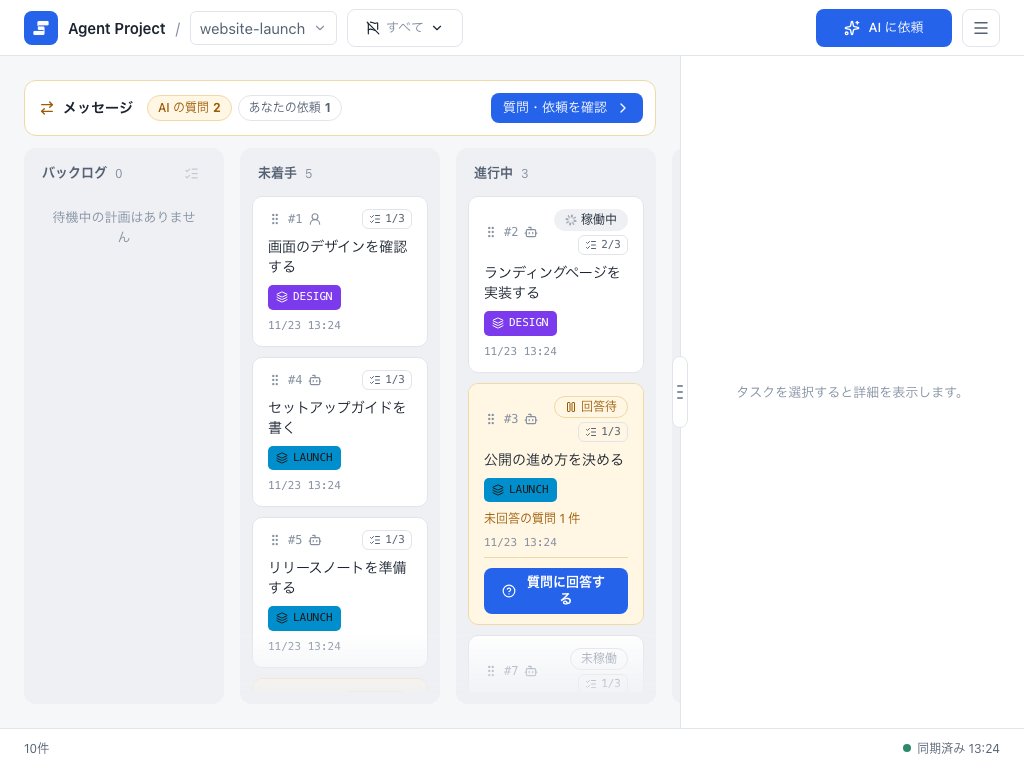
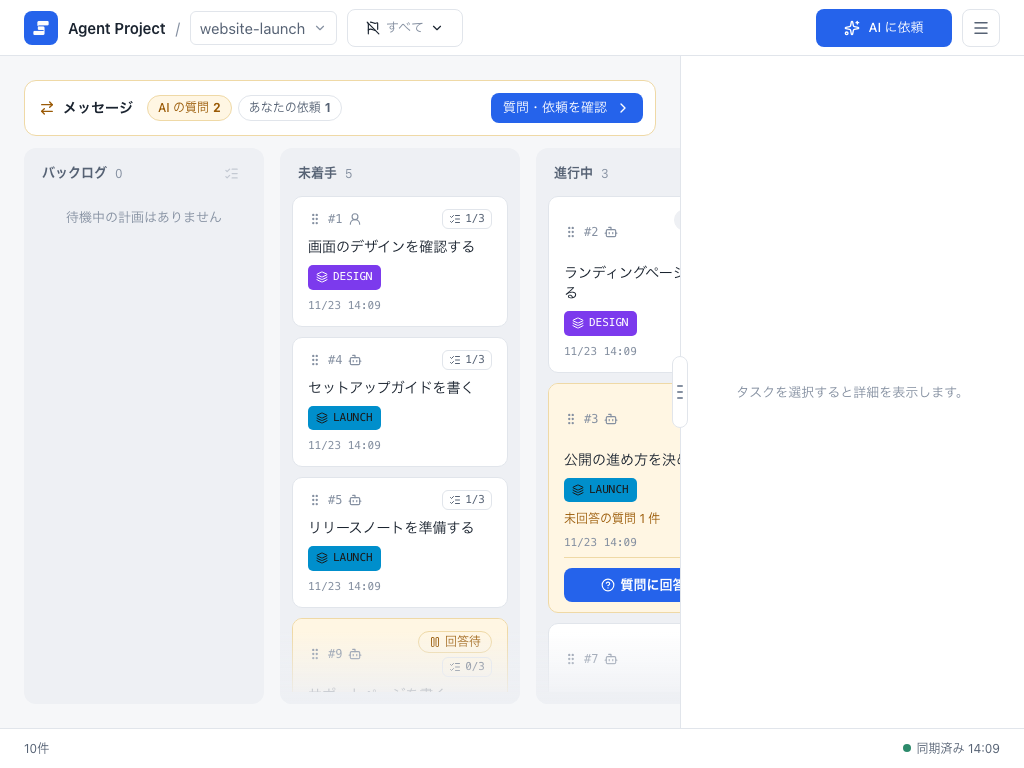
fix: widen the board lanes on tablet widths
Raise the lanes' minimum width from 200px to 240px and let the board
scroll sideways when four lanes do not fit beside the detail panel.
Update the layout tests, the user guide, and the tablet README images.

diff --git a/e2e/tests/layout.spec.ts b/e2e/tests/layout.spec.ts
@@ -144,11 +144,11 @@ for (const width of [1024, 1280, 1920]) {
     expect(boxes[0].x).toBeLessThan(boxes[1].x);
     expect(boxes[1].x).toBeLessThan(boxes[2].x);
     expect(boxes[2].x).toBeLessThan(boxes[3].x);
-    for (const lane of boxes) expect(lane.width).toBeGreaterThanOrEqual(200);
+    for (const lane of boxes) expect(lane.width).toBeGreaterThanOrEqual(240);
     const panelBox = await box(panel(page));
     expect(panelBox.x + panelBox.width).toBe(width);
-    // At 1024px the four lanes scroll sideways inside the board, so only the wider windows show them all.
-    if (width >= 1280) expect(boxes[3].x + boxes[3].width).toBeLessThanOrEqual(panelBox.x);
+    // At 1024px the four lanes scroll sideways inside the board, so only windows of 1400px and wider show them all (four 240px lanes, the 360px panel, and the insets).
+    if (width >= 1400) expect(boxes[3].x + boxes[3].width).toBeLessThanOrEqual(panelBox.x);
     await expect(handle(page)).toBeVisible();
     await task(page, 8).click();
     await expect(panel(page).getByRole('button', { name: 'Close details' })).toBeVisible();
@@ -157,12 +157,12 @@ for (const width of [1024, 1280, 1920]) {
   });
 }
 
-test('1024px: the default width fits beside four lanes (each stays at least 200px)', async ({ page }) => {
+test('1024px: the default width fits beside four lanes (each stays at least 240px)', async ({ page }) => {
   await open(page, 1024);
-  // Four lanes of 200px do not fit beside the default width: the panel shrinks to its smallest width (344px) and the lanes scroll.
+  // Four lanes of 240px do not fit beside the default width: the panel shrinks to its smallest width (344px) and the lanes scroll.
   await expect.poll(() => panelWidth(page)).toBe(344);
   const lanes = await page.locator('.lane').evaluateAll((els) => els.map((e) => e.getBoundingClientRect().width));
-  for (const w of lanes) expect(w).toBeGreaterThanOrEqual(200);
+  for (const w of lanes) expect(w).toBeGreaterThanOrEqual(240);
 });
 
 test('1920px: the extra width goes to the lanes and the panel keeps its width', async ({ page }) => {
@@ -232,7 +232,7 @@ test('1280px: the handle is a vertical separator and the drag stops at the limit
   await dragBy(page, -2000);
   expect(await panelWidth(page)).toBe(560);
   const lanes = await page.locator('.lane').evaluateAll((els) => els.map((e) => e.getBoundingClientRect().width));
-  for (const w of lanes) expect(w).toBeGreaterThanOrEqual(200);
+  for (const w of lanes) expect(w).toBeGreaterThanOrEqual(240);
 
   await dragBy(page, 2000);
   expect(await panelWidth(page)).toBe(280);

diff --git a/web/src/shared/styles/app.css b/web/src/shared/styles/app.css
@@ -297,7 +297,7 @@ ol {
 
 .board__lanes {
   display: grid;
-  grid-template-columns: repeat(4, minmax(200px, 1fr));
+  grid-template-columns: repeat(4, minmax(240px, 1fr));
   align-items: stretch;
   gap: 16px;
   height: 100%;
@@ -305,13 +305,13 @@ ol {
   padding: 24px;
 }
 
-/* The band of messages sits above the lanes; the lanes take the height left. */
-/* Four lanes of at least 200px: a window narrower than that scrolls the lanes sideways inside the board. */
-@media (max-width: 1279px) {
-  .board__lanes {
-    overflow-x: auto;
-  }
+/* Four lanes of at least 240px (readable on a 1024px tablet beside the detail panel): a board narrower than
+   that scrolls the lanes sideways inside the board, and the padding at the end keeps the last lane clear. */
+.board__lanes {
+  overflow-x: auto;
 }
+
+/* The band of messages sits above the lanes; the lanes take the height left. */
 
 .board--with-band {
   display: flex;

diff --git a/web/test/layout.test.ts b/web/test/layout.test.ts
@@ -38,7 +38,7 @@ describe('desktop layout', () => {
     expect(rule(css, '.board__lanes')).toMatch(/padding:\s*24px/);
     expect(rule(css, '.board__lanes')).toMatch(/gap:\s*16px/);
     expect(rule(css, '.board__lanes')).toMatch(
-      /grid-template-columns:\s*repeat\(4, minmax\(200px, 1fr\)\)/,
+      /grid-template-columns:\s*repeat\(4, minmax\(240px, 1fr\)\)/,
     );
     expect(rule(css, '.lane')).toMatch(/padding:\s*12px/);
     expect(rule(css, '.lane')).toMatch(/border-radius:\s*var\(--radius-lane\)/);

diff --git a/docs/ja/guide/watch/board.md b/docs/ja/guide/watch/board.md
@@ -152,6 +152,8 @@ title: カンバン
 
 ウィンドウの幅が768ピクセル未満のとき、またスマートフォンでは、カンバンはレーンを横に並べる代わりにモバイル向けの表示になります。バックログ・未着手・進行中・完了のタブに件数が表示され、その下に一度に一つのレーンが表示されます（開いたときは進行中のレーンです）。画面の下には、**カンバン**・**メッセージ**・**依頼**・**アーカイブ**・**設定**のバーがあり、**メッセージ**には回答を待つ質問の数が出て、一覧を開けます。タブをタップするか横にスワイプするとレーンが切り替わります。タスクを選ぶとドロワーで内容を読み、条件にチェックを付け、判断の依頼に回答できます。タスクを長押ししてスワイプすると、隣のレーンへの移動やアーカイブができ（まだ着手されていない「未着手」のタスクを右へスワイプすると、「バックログ」へ戻すボタンが出ます。バックログでは、計画を右へスワイプすると未着手へ動かすボタンが、左へスワイプすると複数を送るための選択ボタンが出ます。レーンを右へ、先頭の端を越えてスワイプしても選択モードが始まります）、完了レーンの端を越えて左へスワイプすると、完了したタスクをすべて選んだ状態でアーカイブの選択が始まります（[アーカイブ](#archive)を参照）。下部のバーの**アーカイブ**ではアーカイブ済みのタスクを確認し、左へスワイプすると復元できます。プロジェクトの切り替えはヘッダーに残り、設定は下部のバーにあります。タスクの追加と編集は、幅のあるウィンドウで行います。
 
+タブレットの横向きなど、幅が768ピクセル以上でも詳細パネルの横に240ピクセル以上のレーンを4本並べられないウィンドウでは、レーンは横に並んだまま、その幅を保ちます。収まらないレーンへは、カンバンを横にスクロールして移ります。最後のレーンの右端には、最初のレーンの左端と同じ余白があります。レーンの上のメッセージの帯は、レーンをスクロールしても動きません。
+
 表示はウィンドウの幅に合わせてその場で切り替わります。選んだプロジェクトは変わらず、入力したものの送信前の回答も、二つの表示を行き来しても残ります。モバイル向けの表示は[リモートアクセス](./remote-access)で説明しています。
 
 ## カンバンの更新 {#ボードの更新}

diff --git a/docs/guide/watch/board.md b/docs/guide/watch/board.md
@@ -154,6 +154,8 @@ A task's plan is set on the PC. The phone can filter by version, add a version, 
 
 When the window is narrower than 768 pixels, and on a phone, the board shows the mobile layout instead of the lanes side by side: tabs for Backlog, Todo, Doing, and Done with their counts, one lane at a time under them (the board opens on Doing), and a bottom bar with **Board**, **Messages**, **Ask**, **Archive**, and **Settings**; **Messages** shows the number of questions that wait on you and opens the list. Tap a tab or swipe sideways to change lanes. Choose a task to read it in a drawer, check its conditions, and answer a decision. Hold a task and swipe it to move it to the next lane or to archive it (swiping a Todo task to the right shows a button that takes it back to the Backlog if nobody has started it; in the Backlog, swiping a plan to the right shows a button that moves it to Todo and swiping it to the left offers the select button for sending several plans, and swiping the lane to the right past its start starts the selection mode, see [Backlog plans](#backlog-plans)), swipe left past the end of the Done lane to start the archive selection with every completed task picked (see [Archive](#archive)), and use **Archive** in the bottom bar to review archived tasks and restore one by swiping it left. The project switcher stays in the header; settings are in the bottom bar. Adding and editing tasks are for a wider window.
 
+On a tablet in landscape, and in any window from 768 pixels wide that cannot fit four lanes of at least 240 pixels beside the details panel, the lanes stay side by side and keep that width. The board scrolls sideways to reach the lanes that do not fit, and the last lane has the same space at its right edge as the first has at its left. The band of messages above the lanes stays in place while the lanes scroll.
+
 The layout follows the window as you resize it. The project you chose stays, and an answer you have entered but not yet sent is kept when you switch between the two layouts. The mobile layout is described in [Remote access](./remote-access).
 
 ## Updates
